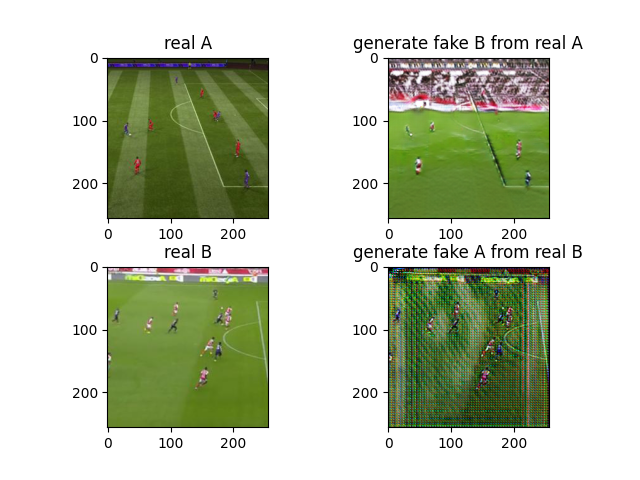
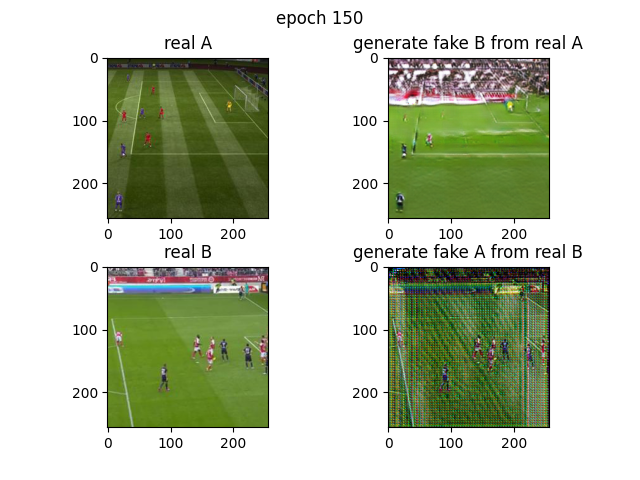
update result

diff --git a/predict_fifa.py b/predict_fifa.py
@@ -47,7 +47,8 @@ def show_real_and_fake(realA, fakeA, realB, fakeB, epoch, id):
 
     plt.subplots_adjust(wspace =0.3, hspace =0.3)
 
-    plt.savefig("imgs/fifa/train_cycleGAN_epoch%u_%u.png"%( epoch, id ))
+    plt.suptitle("epoch %u"%epoch)
+    plt.savefig("imgs/fifa_clean1/train_cycleGAN_epoch%u_%u.png"%( epoch, id ))
     # plt.show()
 
 
@@ -86,7 +87,7 @@ def predict(args, epoch):
         if use_random:
             idx = np.random.randint(0, len(train_dataset))
         else:
-            idx = 2
+            idx = 3
         print('use img idx:%u'%idx)
 
         real_image_A = train_dataset[idx]['A'].unsqueeze(0)
@@ -140,14 +141,14 @@ def predict(args, epoch):
         fake_image_A = 0.5 *( netG_B2A(real_image_B).data + 1.0 )
 
         # vutils.save_image(fake_image_A, 'test.jpg')
-        vutils.save_image(real_image_A, 'imgs/fifa/epoch%u_realA.jpg'%epoch, normalize=True)
-        vutils.save_image(fake_image_A, 'imgs/fifa/epoch%u_fakeA.jpg'%epoch, normalize=True)
-        vutils.save_image(real_image_B, 'imgs/fifa/epoch%u_realB.jpg'%epoch, normalize=True)
-        vutils.save_image(fake_image_B, 'imgs/fifa/epoch%u_fakeB.jpg'%epoch, normalize=True)
+        vutils.save_image(real_image_A, 'imgs/fifa_clean1/epoch%u_realA.jpg'%epoch, normalize=True)
+        vutils.save_image(fake_image_A, 'imgs/fifa_clean1/epoch%u_fakeA.jpg'%epoch, normalize=True)
+        vutils.save_image(real_image_B, 'imgs/fifa_clean1/epoch%u_realB.jpg'%epoch, normalize=True)
+        vutils.save_image(fake_image_B, 'imgs/fifa_clean1/epoch%u_fakeB.jpg'%epoch, normalize=True)
 
 
-        real_image_A = Image.open('imgs/fifa/epoch%u_realA.jpg'%epoch)
-        real_image_B = Image.open('imgs/fifa/epoch%u_realB.jpg'%epoch)
+        real_image_A = Image.open('imgs/fifa_clean1/epoch%u_realA.jpg'%epoch)
+        real_image_B = Image.open('imgs/fifa_clean1/epoch%u_realB.jpg'%epoch)
 
         # real_image_A = real_image_A[0].permute(1,2,0).cpu().numpy()
         # real_image_B = real_image_B[0].permute(1,2,0).cpu().numpy()
